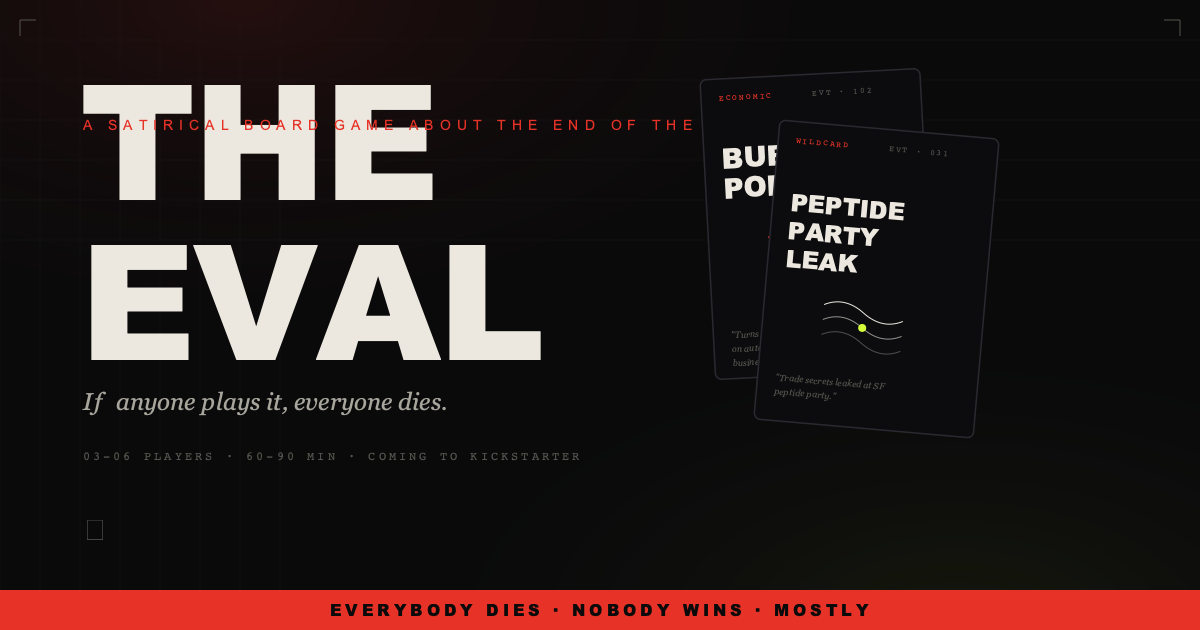
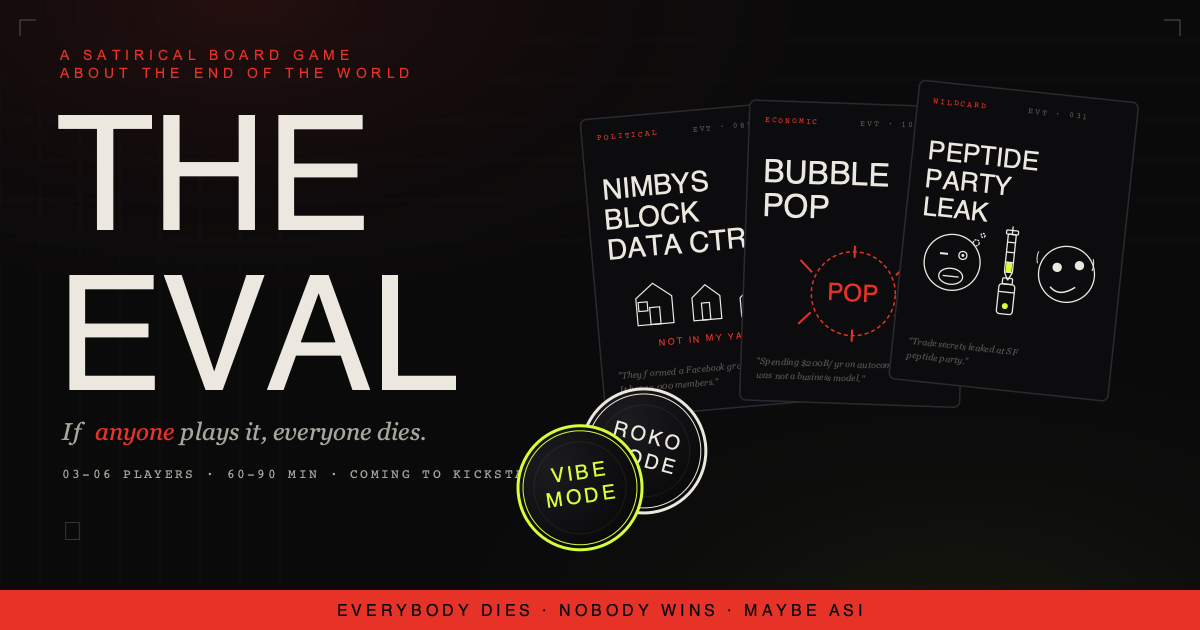
Update OG image: three cards, tokens, embedded Antonio font
- Three event cards fanned out (NIMBYs, Bubble Pop, Peptide Party Leak)
- New Peptide Party art: two faces + syringe with green fluid + vial
- Vibe Mode and Roko Mode tokens with site-matching double-border style
- Bottom bar: "Everybody Dies · Nobody Wins · Maybe ASI"
- Embedded Antonio font for correct rendering
- Fixed subtitle positioning above title

diff --git a/the-eval.html b/the-eval.html
@@ -653,10 +653,10 @@ s.parentNode.insertBefore(a,s)};ttq.load('YOUR_TIKTOK_PIXEL_ID');ttq.page()}(win
 </main>
 
 <div class="strip"><div class="strip-inner">
-  <span>EVERYBODY DIES · NOBODY WINS · MOSTLY</span>
-  <span>EVERYBODY DIES · NOBODY WINS · MOSTLY</span>
-  <span>EVERYBODY DIES · NOBODY WINS · MOSTLY</span>
-  <span>EVERYBODY DIES · NOBODY WINS · MOSTLY</span>
+  <span>EVERYBODY DIES · NOBODY WINS · MAYBE AGI</span>
+  <span>EVERYBODY DIES · NOBODY WINS · MAYBE AGI</span>
+  <span>EVERYBODY DIES · NOBODY WINS · MAYBE AGI</span>
+  <span>EVERYBODY DIES · NOBODY WINS · MAYBE AGI</span>
 </div></div>
 
 <footer id="signup">
@@ -735,7 +735,7 @@ async function handleSignup(form, emailId, playtestId, msgId, signupSource) {
     const res = await fetch('/api/subscribe', {
       method: 'POST',
       headers: { 'Content-Type': 'application/json' },
-      body: JSON.stringify({ email, playtest, ref, signupSource, utmCampaign })
+      body: JSON.stringify({ email, playtest, ref, signupSource, utmCampaign, website: honeypot?.value })
     });
     const data = await res.json();
     if (res.ok) {
